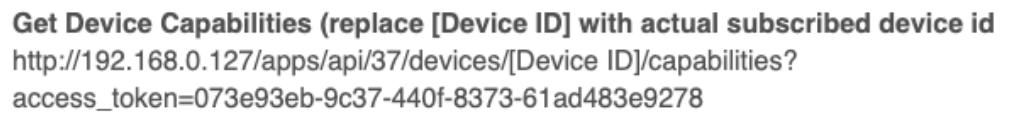
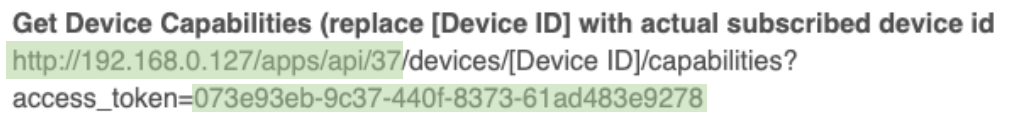
Update documentation for the API URL. Closes #3

Changed region(s): [[0.0, 0.325, 0.3967, 0.675], [0.1831, 0.7, 0.7018, 0.95]]

diff --git a/README.md b/README.md
@@ -18,7 +18,7 @@ This plugin uses the Hubitat's Maker API and websockets to allow Stream Deck to 
 ### Hubitat
 Install the [Maker API](https://docs.hubitat.com/index.php?title=Maker_API) app into Hubitat.
 
-Make note of your `access_token`. ![](resources/readme/access_token.png)
+Make note of your `API_URL` and your `access_token`. ![](resources/readme/access_token.png)
 
 ### Stream Deck
 Download the latest release from the [Releases](https://github.com/ripnet/streamdeck-hubitat/releases) page.
@@ -26,10 +26,15 @@ Download the latest release from the [Releases](https://github.com/ripnet/stream
 You should see the new category in the Stream Deck App
 ![](resources/readme/new_category.png)
 
-Drag the `Toggle Switch` action to a free button slot. Configure the button with the hostname (or IP address) of your hubitat. Paste in your `access_token` from the Maker API.
+#### Available Buttons
+There are currently two buttons available
+* Toggle Switch - This will toggle the state of a switch from off to on, or on to off.
+* Set Switch - This will set the state of a switch to either on or off, regardless of its current state.
+
+Drag an action button to a free button slot. Configure the button with the `API URL` of your hubitat. Paste in your `access_token` from the Maker API.
 Click away from the input field and if everything has been setup properly, the list of devices should populate. Select the device you want to control and give it a name.
 
-![](resources/readme/button_details.png)
+![](resources/readme/global_settings.png)
 
 ## Colors
 Gray = No/Unknown Status
